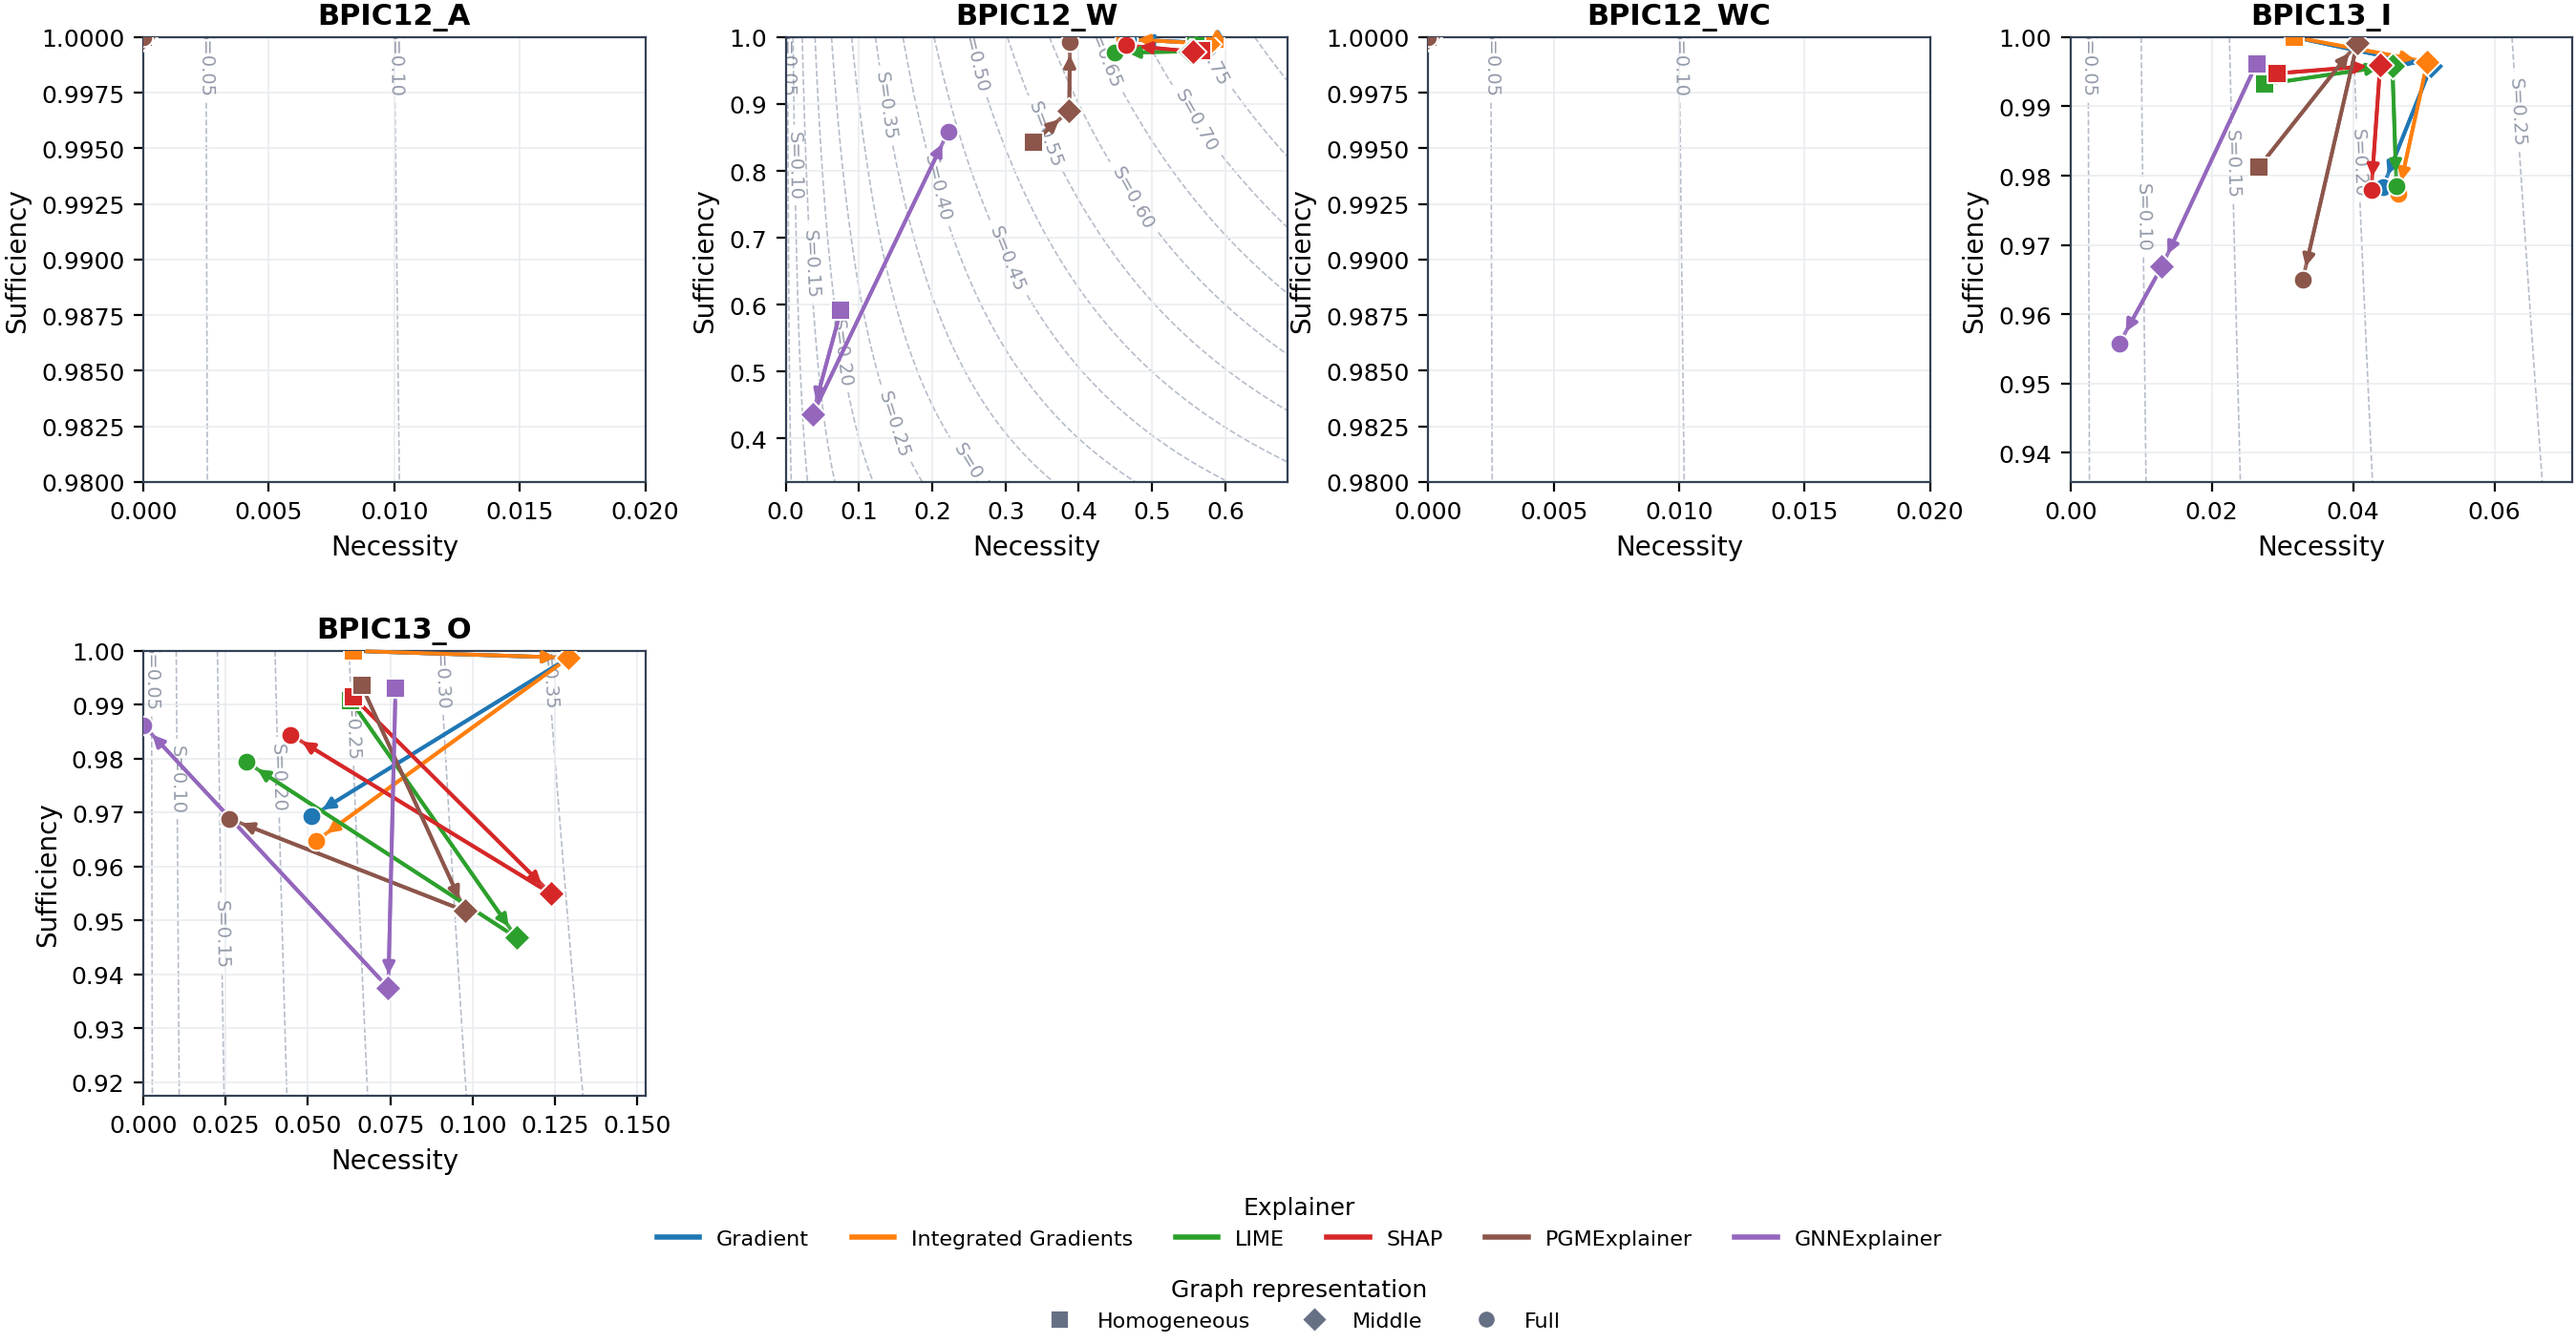
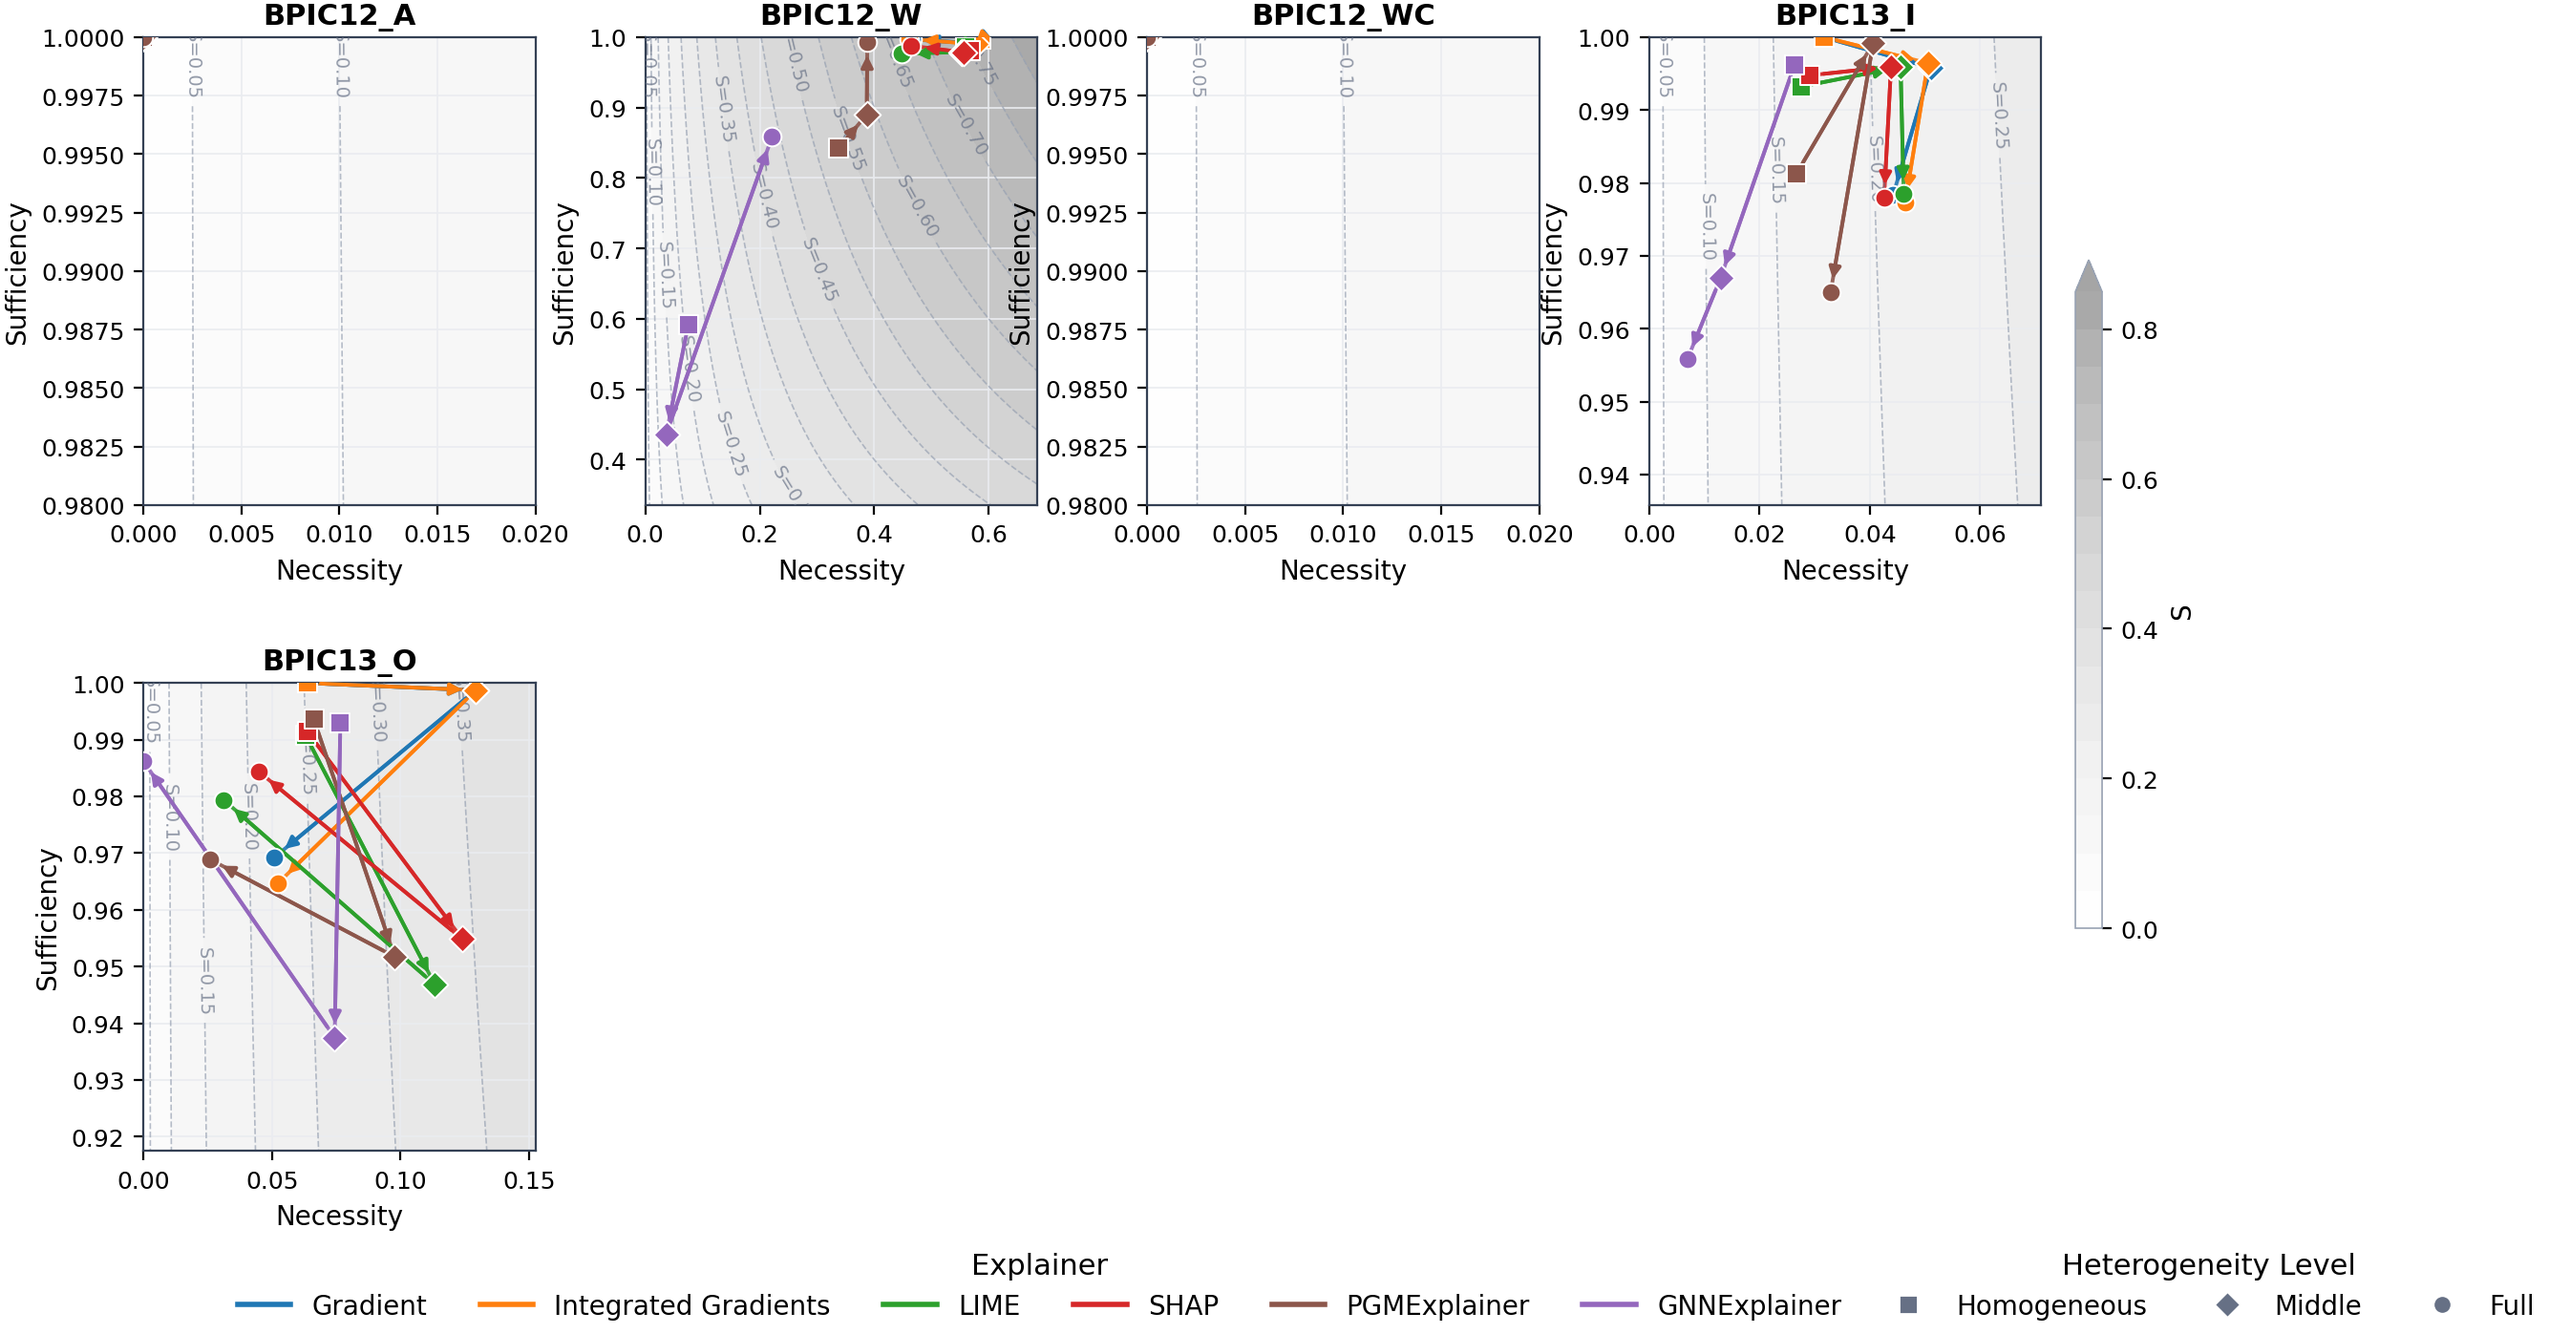
Updates on benchmarks

diff --git a/src/benchmark/benchmark_3_topk.py b/src/benchmark/benchmark_3_topk.py
@@ -83,9 +83,13 @@ def _parse_args() -> argparse.Namespace:
         "--saturation-dataset", default=None,
         help=(
             "If set, skip the normal cross-dataset plots and instead produce a "
-            "single necessity-vs-k saturation plot for this one dataset, reading "
+            "single necessity-vs-k (or sufficiency-vs-k) saturation plot, reading "
             "a fine-grained top_k sweep (e.g. k=1..25) from "
-            "<input>/<dataset>/<saturation-dir>/fidelity_curves_summary.csv."
+            "<input>/<dataset>/<saturation-dir>/fidelity_curves_summary.csv. "
+            "Pass a dataset name for a single-dataset plot, or 'all' to average "
+            "mean_fid_prob_plus/minus per (explainer, top_k) across every dataset "
+            "that has the sweep (each dataset weighted equally) and plot one "
+            "combined curve per explainer."
         ),
     )
     parser.add_argument(
@@ -96,6 +100,14 @@ def _parse_args() -> argparse.Namespace:
     parser.add_argument(
         "--saturation-task", default="activity",
         help="Task to plot in the saturation figure (default: activity).",
+    )
+    parser.add_argument(
+        "--saturation-metric", default="necessity", choices=("necessity", "sufficiency"),
+        help=(
+            "Which fidelity component to plot in the saturation figure: "
+            "'necessity' (mean_fid_prob_plus, default) or 'sufficiency' "
+            "(mean_one_minus_fid_prob_minus)."
+        ),
     )
     parser.add_argument(
         "--saturation-tol", type=float, default=0.05,
@@ -648,24 +660,83 @@ def _load_ks_summary(input_dir: Path, dataset: str, saturation_dir: str, task: s
     return summary
 
 
-def _plot_necessity_saturation(
+def _load_ks_summary_all_datasets(
+    input_dir: Path, saturation_dir: str, task: str,
+) -> tuple[pd.DataFrame, Sequence[str]]:
+    frames = []
+    included = []
+    for dataset in DATASETS:
+        summary_path = input_dir / dataset / saturation_dir / "fidelity_curves_summary.csv"
+        if not summary_path.is_file():
+            warnings.warn(f"Missing {summary_path}; skipping {dataset}")
+            continue
+        summary = pd.read_csv(summary_path)
+        resolved = _resolve_task(sorted(summary["task"].astype(str).unique()), task)
+        if resolved is None:
+            warnings.warn(f"{dataset}: no rows for task {task!r}; skipping")
+            continue
+        part = summary[summary["task"].astype(str) == resolved].copy()
+        if part.empty:
+            continue
+        part["task"] = resolved
+        frames.append(part)
+        included.append(dataset)
+
+    if not frames:
+        raise ValueError(f"No datasets contain task {task!r} under {saturation_dir!r}")
+
+    combined = pd.concat(frames, ignore_index=True)
+    value_cols = [c for c in ("mean_fid_prob_plus", "mean_fid_prob_minus") if c in combined.columns]
+    averaged = (
+        combined.groupby(["explainer", "top_k"], as_index=False)[value_cols]
+        .mean()
+    )
+    averaged["task"] = str(combined["task"].iloc[0])
+    return averaged, included
+
+
+def _necessity_component(raw: np.ndarray) -> np.ndarray:
+    """a = min(1, max(0, Fid+)), applied pointwise at each k."""
+    return np.clip(raw, 0.0, 1.0)
+
+
+def _identity_component(raw: np.ndarray) -> np.ndarray:
+    return raw
+
+
+_SATURATION_METRICS = {
+    # necessity: a(k) = min(1, max(0, Fid+(k))) -- rises toward 1 as k grows.
+    "necessity": ("mean_fid_prob_plus", _necessity_component, "Mean necessity component", "necessity"),
+    # sufficiency: raw, unflipped Fid-(k) -- the drop in prediction probability
+    # when keeping ONLY the top-k nodes. Decays toward 0 as k grows (more of
+    # the graph is retained, so the prediction converges back to the
+    # original). Lower = more sufficient. Note this is *not* the same as the
+    # 1-|Fid-| "goodness" score used for the aggregate necessity/sufficiency
+    # score elsewhere in this repo (e.g. benchmark_1_overall_score.py) -- that
+    # score is bounded to [0, 1] and necessarily rises with k for the same
+    # reason this raw curve falls.
+    "sufficiency": ("mean_fid_prob_minus", _identity_component, "Mean fidelity− (sufficiency) component", "sufficiency"),
+}
+
+
+def _plot_saturation(
     summary: pd.DataFrame,
     dataset: str,
     task_label: str,
     tol: float,
     out_dir: Path,
     formats: Sequence[str],
+    metric: str = "necessity",
+    stem_label: str | None = None,
 ) -> None:
-    """Mean necessity (Fidelity+) vs explanation size k for one dataset, one
-    panel, one line per explainer, with each curve's saturation point
-    highlighted (larger marker + k label)."""
+    value_col, transform, ylabel, metric_label = _SATURATION_METRICS[metric]
     fig, ax = plt.subplots(figsize=(9, 6.5))
 
     methods = [m for m in METHODS if m in set(summary["explainer"])]
     for method in methods:
         rows = summary[summary["explainer"] == method].sort_values("top_k")
         k = rows["top_k"].to_numpy(dtype=int)
-        y = rows["mean_fid_prob_plus"].to_numpy(dtype=float)
+        y = transform(rows[value_col].to_numpy(dtype=float))
         color = METHOD_COLORS.get(method, "0.3")
 
         ax.plot(k, y, color=color, linewidth=1.6, marker="o", markersize=5, zorder=2)
@@ -683,7 +754,7 @@ def _plot_necessity_saturation(
         )
 
     ax.set_xlabel("Explanation size k")
-    ax.set_ylabel("Mean necessity component")
+    ax.set_ylabel(ylabel)
     ax.set_xlim(float(summary["top_k"].min()), float(summary["top_k"].max()))
     ax.grid(True, linewidth=0.6)
 
@@ -695,20 +766,50 @@ def _plot_necessity_saturation(
     fig.legend(handles=handles, loc="upper center", ncol=3, frameon=False,
                bbox_to_anchor=(0.5, 1.06), fontsize=11)
     fig.suptitle(
-        f"{dataset} — necessity saturation vs. explanation size ({task_label})",
+        f"{dataset} — {metric_label} saturation vs. explanation size ({task_label})",
         fontsize=13, y=1.14,
     )
     fig.tight_layout()
-    stem = f"{_safe_stem(dataset)}_{_safe_stem(task_label)}_necessity_saturation"
+    stem = f"{_safe_stem(stem_label or dataset)}_{_safe_stem(task_label)}_{metric_label}_saturation"
     _save(fig, out_dir, stem, formats)
+
+
+def _export_saturation_csv(
+    summary: pd.DataFrame, out_dir: Path, stem_label: str, task_label: str,
+    datasets_averaged: Sequence[str] | None = None,
+) -> None:
+    cols = ["explainer", "top_k", "task", "mean_fid_prob_plus", "mean_fid_prob_minus"]
+    export = summary[[c for c in cols if c in summary.columns]].sort_values(["explainer", "top_k"]).copy()
+    if datasets_averaged is not None:
+        export["datasets_averaged"] = ", ".join(datasets_averaged)
+    csv_path = out_dir / f"{_safe_stem(stem_label)}_{_safe_stem(task_label)}_saturation_data.csv"
+    export.to_csv(csv_path, index=False)
+    print(f"Saved {csv_path}")
 
 
 def _run_saturation(args: argparse.Namespace, formats: Sequence[str]) -> None:
     dataset = args.saturation_dataset
-    summary = _load_ks_summary(args.input, dataset, args.saturation_dir, args.saturation_task)
     _setup_style()
-    task_label = str(summary["task"].iloc[0])
-    _plot_necessity_saturation(summary, dataset, task_label, args.saturation_tol, args.out, formats)
+    if str(dataset).strip().lower() == "all":
+        summary, included = _load_ks_summary_all_datasets(
+            args.input, args.saturation_dir, args.saturation_task
+        )
+        task_label = str(summary["task"].iloc[0])
+        dataset_label = f"All datasets (n={len(included)}, average)"
+        print(f"Averaging over: {', '.join(included)}")
+        _export_saturation_csv(summary, args.out, "all_datasets", task_label, datasets_averaged=included)
+        _plot_saturation(
+            summary, dataset_label, task_label, args.saturation_tol, args.out, formats,
+            metric=args.saturation_metric, stem_label="all_datasets",
+        )
+    else:
+        summary = _load_ks_summary(args.input, dataset, args.saturation_dir, args.saturation_task)
+        task_label = str(summary["task"].iloc[0])
+        _export_saturation_csv(summary, args.out, dataset, task_label)
+        _plot_saturation(
+            summary, dataset, task_label, args.saturation_tol, args.out, formats,
+            metric=args.saturation_metric,
+        )
 
 
 def main() -> None:

diff --git a/src/benchmark/benchmark_2_heterogeneity.py b/src/benchmark/benchmark_2_heterogeneity.py
@@ -8,6 +8,7 @@ from typing import Iterable
 import matplotlib
 matplotlib.use("Agg")
 import matplotlib.pyplot as plt
+from matplotlib.colors import LinearSegmentedColormap
 from matplotlib.lines import Line2D
 import numpy as np
 import pandas as pd
@@ -34,6 +35,11 @@ MODE_DIR_BASE = {
     "Middle": "fidelity_curves_middle",
     "Full": "fidelity_curves_full",
 }
+
+_SCORE_VMIN, _SCORE_VMAX = 0.0, 0.85
+_SCORE_CMAP = LinearSegmentedColormap.from_list(
+    "light_greys", plt.cm.Greys(np.linspace(0.0, 0.33, 256))
+)
 
 
 def _mode_dir(level: str, dir_suffix: str = "") -> str:
@@ -224,29 +230,37 @@ def _axis_limits(values: pd.Series, mode: str) -> tuple[float, float]:
     return max(0.0, lo - pad), min(1.0, hi + pad)
 
 
-def _add_score_contours(ax: plt.Axes, xlim: tuple, ylim: tuple) -> None:
+def _add_score_contours(ax: plt.Axes, xlim: tuple, ylim: tuple):
     x = np.linspace(max(xlim[0], 1e-6), xlim[1], 300)
     y = np.linspace(max(ylim[0], 1e-6), ylim[1], 300)
     xx, yy = np.meshgrid(x, y)
     score = np.sqrt(xx * yy)
+
+    filled = ax.contourf(
+        xx, yy, score, levels=np.linspace(_SCORE_VMIN, _SCORE_VMAX, 18),
+        cmap=_SCORE_CMAP, vmin=_SCORE_VMIN, vmax=_SCORE_VMAX,
+        extend="max", zorder=0,
+    )
+
     lo, hi = float(score.min()), float(score.max())
     candidates = np.arange(np.ceil(lo / 0.05) * 0.05, np.floor(hi / 0.05) * 0.05 + 0.001, 0.05)
     levels = candidates[(candidates > lo) & (candidates < hi)]
     if len(levels) == 0:
         levels = np.linspace(lo, hi, 4)[1:-1]
     contours = ax.contour(xx, yy, score, levels=levels, colors="#98A2B3",
-                          linewidths=0.6, linestyles="--", alpha=0.7, zorder=0)
+                          linewidths=0.6, linestyles="--", alpha=0.7, zorder=1)
     ax.clabel(contours, inline=True, fontsize=7, fmt=lambda v: f"S={v:.2f}", colors="#667085")
+    return filled
 
 
-def _plot_dataset(ax: plt.Axes, frame: pd.DataFrame, title: str, axis_mode: str) -> None:
+def _plot_dataset(ax: plt.Axes, frame: pd.DataFrame, title: str, axis_mode: str):
     present_levels = [l for l in LEVELS if l in frame["heterogeneity"].values]
 
     xlim = _axis_limits(frame["necessity"], axis_mode)
     ylim = _axis_limits(frame["sufficiency"], axis_mode)
     ax.set_xlim(xlim)
     ax.set_ylim(ylim)
-    _add_score_contours(ax, xlim, ylim)
+    filled = _add_score_contours(ax, xlim, ylim)
 
     explainers = _ordered_explainers(frame["explainer"])
     for idx, explainer in enumerate(explainers):
@@ -277,6 +291,7 @@ def _plot_dataset(ax: plt.Axes, frame: pd.DataFrame, title: str, axis_mode: str)
     ax.set_xlabel("Necessity", fontsize=10)
     ax.set_ylabel("Sufficiency", fontsize=10)
     ax.tick_params(labelsize=9)
+    return filled
 
 
 def _build_legend_handles(all_explainers: list[str], present_levels: list[str]) -> tuple:
@@ -327,9 +342,12 @@ def _render_figure(
             if lv in df["heterogeneity"].values and lv not in all_levels:
                 all_levels.append(lv)
 
+    score_mappable = None
     for i, (name, df) in enumerate(data.items()):
         row, col = divmod(i, ncols)
-        _plot_dataset(axes[row][col], df, name, axis_mode)
+        filled = _plot_dataset(axes[row][col], df, name, axis_mode)
+        if score_mappable is None:
+            score_mappable = filled
 
     for j in range(n, nrows * ncols):
         row, col = divmod(j, ncols)
